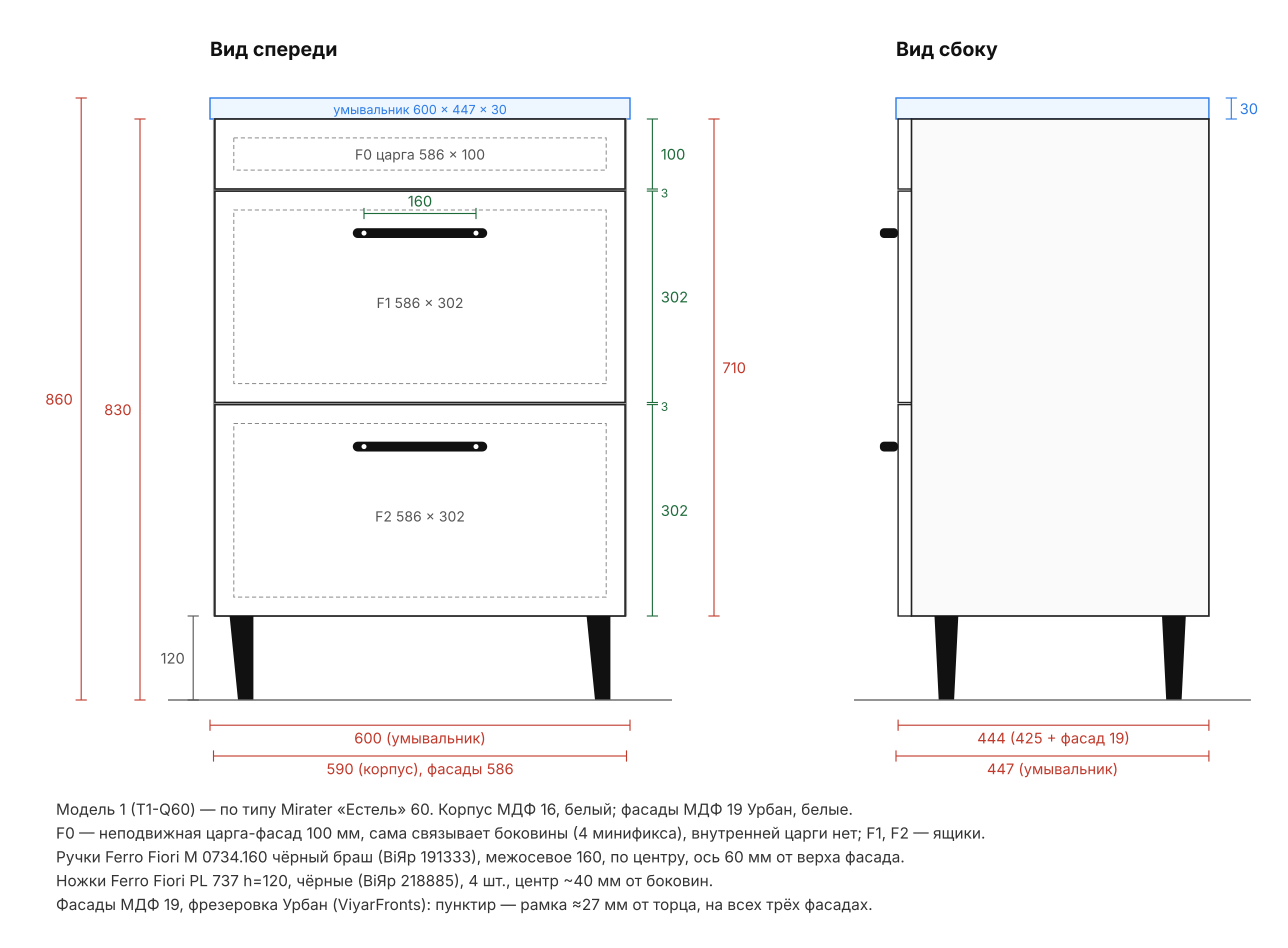
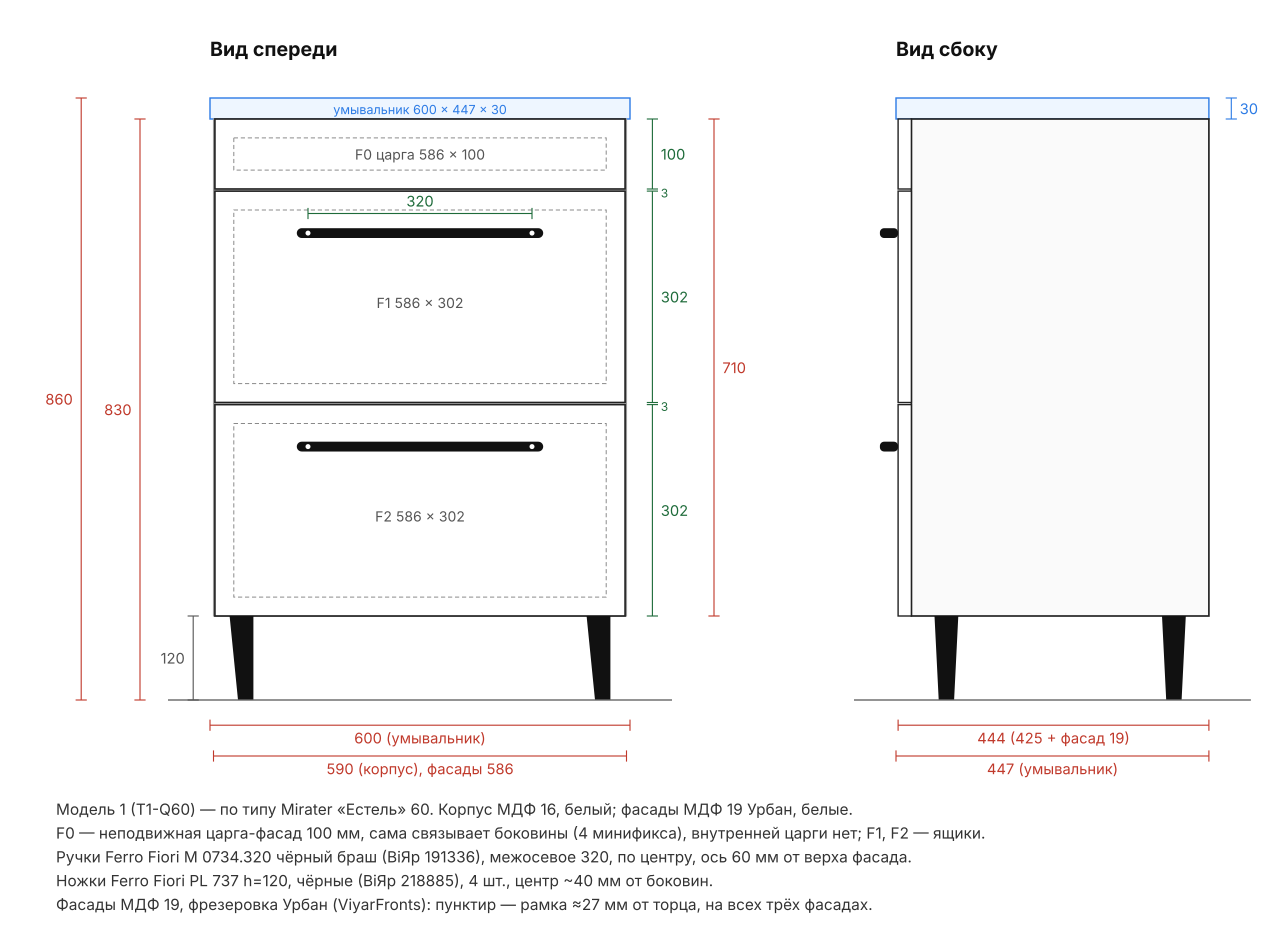
Модель 1: ручки Ferro Fiori M 0734.320 чёрный браш (ВіЯр 191336) вместо 0734.160; визуал и чертёж
Claude-Session: https://claude.ai/code/session_01SKsW9NAaUaCHRJukYAe96U

diff --git a/modeli/m1/vizual.py b/modeli/m1/vizual.py
@@ -5,7 +5,7 @@ FW, GAP_S = 586, 2
 LEG = 120
 SINK_W, SINK_D, SINK_H = 600, 447, 30
 F0, F1, F2, MID = 100, 302, 302, 3
-HANDLE_L, HANDLE_C, HANDLE_T = 192, 160, 14   # длина ручки — ориентировочно (ВіЯр не указывает)
+HANDLE_L, HANDLE_C, HANDLE_T = 352, 320, 14   # Ferro Fiori M 0734.320 (ВіЯр 191336); длина ориентировочно
 HANDLE_FROM_TOP = 38
 import sys, pathlib
 OUT = str(pathlib.Path(__file__).resolve().parent) + '/'
@@ -208,7 +208,7 @@ hdim(fy(0) + 18, FX, FX + 600*k, "600 (умывальник)")
 hdim(fy(0) + 40, cx0, cx0 + 590*k, "590 (корпус), фасады 586")
 # ручка
 hy1 = fy(830 - F0 - MID)
-hdim(hy1 + HANDLE_FROM_TOP*k - 14, cx0 + 2*k + 293*k - HANDLE_C/2*k, cx0 + 2*k + 293*k + HANDLE_C/2*k, "160", "#1e6b3a", below=False)
+hdim(hy1 + HANDLE_FROM_TOP*k - 14, cx0 + 2*k + 293*k - HANDLE_C/2*k, cx0 + 2*k + 293*k + HANDLE_C/2*k, "320", "#1e6b3a", below=False)
 
 # ---------- вид сбоку
 text(SX, 40, "Вид сбоку", 14, "start", "#111", "bold")
@@ -241,7 +241,7 @@ vdim(sb + 16, fy(860), fy(830), "30", "r", "#2c7be5")
 notes = [
  "Модель 1 (T1-Q60) — по типу Mirater «Естель» 60. Корпус МДФ 16, белый; фасады МДФ 19 Урбан, белые.",
  "F0 — неподвижная царга-фасад 100 мм, сама связывает боковины (4 минификса), внутренней царги нет; F1, F2 — ящики.",
- "Ручки Ferro Fiori M 0734.160 чёрный браш (ВіЯр 191333), межосевое 160, по центру, ось 60 мм от верха фасада.",
+ "Ручки Ferro Fiori M 0734.320 чёрный браш (ВіЯр 191336), межосевое 320, по центру, ось 60 мм от верха фасада.",
  "Ножки Ferro Fiori PL 737 h=120, чёрные (ВіЯр 218885), 4 шт., центр ~40 мм от боковин.",
  "Фасады МДФ 19, фрезеровка Урбан (ViyarFronts): пунктир — рамка ≈27 мм от торца, на всех трёх фасадах.",
 ]

diff --git a/izdeliya/T1-Q60/spec.md b/izdeliya/T1-Q60/spec.md
@@ -69,7 +69,7 @@
 | Заглушки на эксцентрики в цвет (по желанию, они только внутри) | — | по месту |
 | Саморез 4×16 (направляющие к боковинам) | — | ~24 |
 | Саморез 4×25 (фасад к ящику изнутри) | — | 8 |
-| Ручка Ferro Fiori M 0734.160 чорний браш, міжцентрова 160 мм, накладна (ВіЯр 191333) — по центру фасаду, вісь 60 мм від верху (нижче рамки Урбан) | — | 2 |
+| Ручка Ferro Fiori M 0734.320 чорний браш, міжцентрова 320 мм, довжина ≈350, накладна (ВіЯр 191336; було 0734.160 — 191333) — по центру фасаду, вісь 60 мм від верху (нижче рамки Урбан) | — | 2 |
 | Ніжка меблева Ferro Fiori PL 737, h=120 мм, max 500 кг, чорний (ВіЯр 218885) | — | 4 |
 | Крепление к стене от опрокидывания: 2 шурупа 6×60 через заднюю верхнюю царгу | — | 1 компл. |
 | Ограничитель для сифона пластиковий W=160 L=245 H=86 R=80, білий, Mesan | 228527 | 1 |
